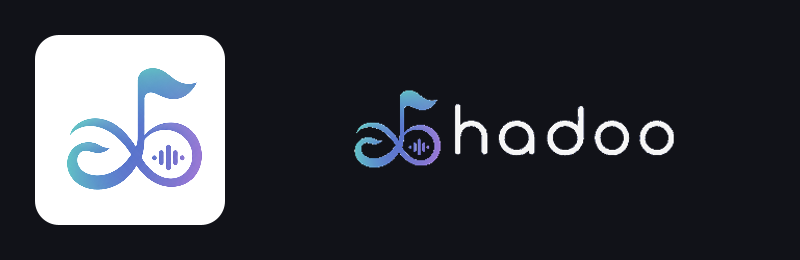
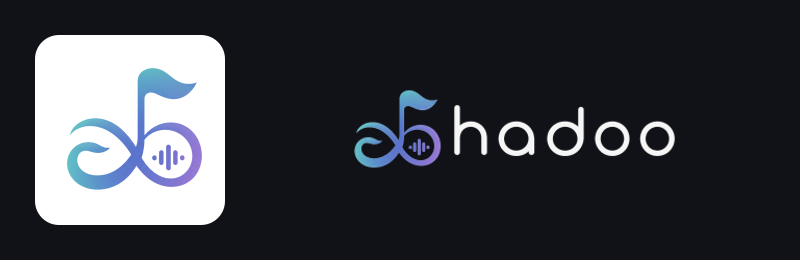
fix(branding): render clean header edges at every density

diff --git a/tools/Branding.java b/tools/Branding.java
@@ -23,6 +23,7 @@ class Branding {
 
     // Remove the near-white scan background at export time, preserving colored logo ink.
     private static BufferedImage ink(BufferedImage source, boolean darkHeader) {
+        if (darkHeader) return wordmarkInk(source);
         BufferedImage output = new BufferedImage(source.getWidth(), source.getHeight(), BufferedImage.TYPE_INT_ARGB);
         for (int y = 0; y < source.getHeight(); y++) {
             for (int x = 0; x < source.getWidth(); x++) {
@@ -34,9 +35,24 @@ class Branding {
                 if (saturation < 22 && minimum > 220) {
                     alpha = alpha * Math.max(0, 248 - minimum) / 28;
                 }
-                // Preserve the existing wordmark's shape; light ink makes it visible on a dark app bar.
-                if (darkHeader && Math.max(r, Math.max(g, b)) < 100) r = g = b = 245;
                 output.setRGB(x, y, (Math.min(255, alpha) << 24) | (r << 16) | (g << 8) | b);
+            }
+        }
+        return output;
+    }
+
+    // Recover coverage from the original dark ink on white paper. Recolor every
+    // covered pixel, including antialiased edges, so no navy/white fringe survives.
+    // The symbol in this mask is discarded when the wordmark is cropped below.
+    static BufferedImage wordmarkInk(BufferedImage source) {
+        BufferedImage output = canvas(source.getWidth(), source.getHeight());
+        for (int y = 0; y < source.getHeight(); y++) {
+            for (int x = 0; x < source.getWidth(); x++) {
+                int pixel = source.getRGB(x, y);
+                int minimum = Math.min((pixel >>> 16) & 255, Math.min((pixel >>> 8) & 255, pixel & 255));
+                double coverage = Math.clamp((248.0 - minimum) / 200.0, 0.0, 1.0);
+                int alpha = (int) Math.round((pixel >>> 24) * coverage);
+                output.setRGB(x, y, (alpha << 24) | 0xf5f5f5);
             }
         }
         return output;
@@ -65,14 +81,60 @@ class Branding {
         g.setRenderingHint(RenderingHints.KEY_INTERPOLATION, RenderingHints.VALUE_INTERPOLATION_BICUBIC);
         g.setRenderingHint(RenderingHints.KEY_RENDERING, RenderingHints.VALUE_RENDER_QUALITY);
         g.setRenderingHint(RenderingHints.KEY_ANTIALIASING, RenderingHints.VALUE_ANTIALIAS_ON);
+        g.setRenderingHint(RenderingHints.KEY_ALPHA_INTERPOLATION, RenderingHints.VALUE_ALPHA_INTERPOLATION_QUALITY);
         return g;
+    }
+
+    // A single bicubic draw samples only a few source pixels even during a large
+    // reduction. Integrate the complete footprint in premultiplied-alpha space
+    // instead, retaining thin strokes without aliasing or transparent-edge halos.
+    static BufferedImage resizeForExport(BufferedImage source, int width, int height) {
+        if (width <= 0 || height <= 0) throw new IllegalArgumentException("Image dimensions must be positive.");
+        if (width == source.getWidth() && height == source.getHeight()) return source;
+        BufferedImage output = canvas(width, height);
+        if (width > source.getWidth() || height > source.getHeight()) {
+            Graphics2D g = graphics(output);
+            g.drawImage(source, 0, 0, width, height, null);
+            g.dispose();
+            return output;
+        }
+        double stepX = source.getWidth() / (double) width;
+        double stepY = source.getHeight() / (double) height;
+        double area = stepX * stepY;
+        for (int y = 0; y < height; y++) {
+            double top = y * stepY, bottom = (y + 1) * stepY;
+            for (int x = 0; x < width; x++) {
+                double left = x * stepX, right = (x + 1) * stepX;
+                double alpha = 0, red = 0, green = 0, blue = 0;
+                for (int sy = (int) Math.floor(top); sy < Math.min(source.getHeight(), (int) Math.ceil(bottom)); sy++) {
+                    double weightY = Math.min(bottom, sy + 1) - Math.max(top, sy);
+                    for (int sx = (int) Math.floor(left); sx < Math.min(source.getWidth(), (int) Math.ceil(right)); sx++) {
+                        double weight = weightY * (Math.min(right, sx + 1) - Math.max(left, sx));
+                        int pixel = source.getRGB(sx, sy);
+                        double coveredArea = (pixel >>> 24) * weight;
+                        alpha += coveredArea;
+                        red += ((pixel >>> 16) & 255) * coveredArea;
+                        green += ((pixel >>> 8) & 255) * coveredArea;
+                        blue += (pixel & 255) * coveredArea;
+                    }
+                }
+                int a = Math.clamp((int) Math.round(alpha / area), 0, 255);
+                if (a > 0) {
+                    int r = Math.clamp((int) Math.round(red / alpha), 0, 255);
+                    int g = Math.clamp((int) Math.round(green / alpha), 0, 255);
+                    int b = Math.clamp((int) Math.round(blue / alpha), 0, 255);
+                    output.setRGB(x, y, (a << 24) | (r << 16) | (g << 8) | b);
+                }
+            }
+        }
+        return output;
     }
 
     private static void fit(Graphics2D g, BufferedImage source, double x, double y, double width, double height) {
         double scale = Math.min(width / source.getWidth(), height / source.getHeight());
         int w = Math.max(1, (int) Math.round(source.getWidth() * scale));
         int h = Math.max(1, (int) Math.round(source.getHeight() * scale));
-        g.drawImage(source, (int) Math.round(x + (width - w) / 2), (int) Math.round(y + (height - h) / 2), w, h, null);
+        g.drawImage(resizeForExport(source, w, h), (int) Math.round(x + (width - w) / 2), (int) Math.round(y + (height - h) / 2), null);
     }
 
     private static void save(BufferedImage image, Path path) throws IOException {

diff --git a/tests/BrandingQualityTest.java b/tests/BrandingQualityTest.java
@@ -1,0 +1,54 @@
+// SPDX-License-Identifier: GPL-3.0-only
+import java.awt.image.BufferedImage;
+
+class BrandingQualityTest {
+    private static void require(boolean condition, String message) {
+        if (!condition) throw new AssertionError(message);
+    }
+
+    private static void thinStrokesContributeToReducedPixels() {
+        BufferedImage source = new BufferedImage(100, 100, BufferedImage.TYPE_INT_ARGB);
+        for (int y = 0; y < 100; y++) {
+            for (int x = 0; x < 100; x++) source.setRGB(x, y, x == 0 ? 0xffffffff : 0xff000000);
+        }
+        BufferedImage reduced = Branding.resizeForExport(source, 10, 10);
+        for (int y = 0; y < 10; y++) {
+            int first = reduced.getRGB(0, y);
+            require((first >>> 24) == 255, "Opaque artwork became translucent");
+            require((first & 255) == 26, "A thin source stroke was skipped instead of area averaged");
+            require((reduced.getRGB(1, y) & 0xffffff) == 0, "The stroke leaked into an adjacent footprint");
+        }
+    }
+
+    private static void transparentPixelsDoNotCreateColorFringes() {
+        BufferedImage source = new BufferedImage(2, 1, BufferedImage.TYPE_INT_ARGB);
+        source.setRGB(0, 0, 0xffffffff);
+        source.setRGB(1, 0, 0x000000ff);
+        int reduced = Branding.resizeForExport(source, 1, 1).getRGB(0, 0);
+        require((reduced >>> 24) == 128, "Coverage was not averaged correctly");
+        require((reduced & 0xffffff) == 0xffffff, "Transparent RGB introduced a dark or colored halo");
+    }
+
+    private static void recoloringAlsoRecolorsAntialiasedEdges() {
+        BufferedImage source = new BufferedImage(4, 1, BufferedImage.TYPE_INT_ARGB);
+        source.setRGB(0, 0, 0xff283264); // Solid navy ink.
+        source.setRGB(1, 0, 0xff94a0b2); // An antialiased edge on white paper.
+        source.setRGB(2, 0, 0xfffaf9fb); // Near-white paper texture.
+        source.setRGB(3, 0, 0x00283264); // Already transparent.
+        BufferedImage mask = Branding.wordmarkInk(source);
+        require((mask.getRGB(0, 0) >>> 24) == 255, "Solid lettering lost its weight");
+        require((mask.getRGB(1, 0) >>> 24) == 128, "The antialiased edge lost its coverage");
+        for (int x = 0; x < 2; x++) {
+            require((mask.getRGB(x, 0) & 0xffffff) == 0xf5f5f5, "A navy fringe survived recoloring");
+        }
+        require((mask.getRGB(2, 0) >>> 24) == 0, "Paper noise remained visible");
+        require((mask.getRGB(3, 0) >>> 24) == 0, "Transparent artwork became visible");
+    }
+
+    public static void main(String[] args) {
+        thinStrokesContributeToReducedPixels();
+        transparentPixelsDoNotCreateColorFringes();
+        recoloringAlsoRecolorsAntialiasedEdges();
+        System.out.println("Branding quality regressions passed.");
+    }
+}

diff --git a/tests/test_builder.py b/tests/test_builder.py
@@ -187,6 +187,15 @@ class BuilderTests(unittest.TestCase):
             for name, expected in original_hashes.items():
                 self.assertEqual(h.sha256(h.ROOT / "assets/images" / name), expected)
 
+    def test_branding_preserves_thin_strokes_and_removes_color_fringes(self):
+        java = h.find_java()
+        with tempfile.TemporaryDirectory() as directory:
+            subprocess.run([str(java.parent / "javac"), "-d", directory,
+                            str(h.ROOT / "tools/Branding.java"), str(h.ROOT / "tests/BrandingQualityTest.java")],
+                           check=True, capture_output=True, text=True, timeout=45)
+            subprocess.run([str(java), "-Djava.awt.headless=true", "-cp", directory, "BrandingQualityTest"],
+                           check=True, capture_output=True, text=True, timeout=30)
+
     def test_local_artifacts_are_git_ignored(self):
         names = [".hadoo-local/input/original.apk", ".hadoo-local/signing/morphe.keystore", ".hadoo-local/legacy-2026-11-03/app.json", "accidental.apk", "accidental.jks", "accidental.pem"]
         result = subprocess.run(["git", "check-ignore", "--stdin"], input="\n".join(names) + "\n", cwd=h.ROOT, capture_output=True, text=True)

diff --git a/README.md b/README.md
@@ -102,6 +102,8 @@ different imported key.
   signing certificates, supported versions and available patch option keys.
 - `tools/Branding.java`: deterministic Android resource export. The original PNGs
   stay unchanged; generated resources are sized for each Android display density.
+  Lettering uses a clean coverage mask, and reductions average every source pixel
+  with its opacity to retain thin strokes without dark or colored fringes.
 - `tools/hadoo.py`: dependency-free build, validation, signing and installation CLI.
 - `.github/workflows/checks.yml`: source tests, branding export and upstream patch
   compatibility checks. It never builds or uploads Google's app.
